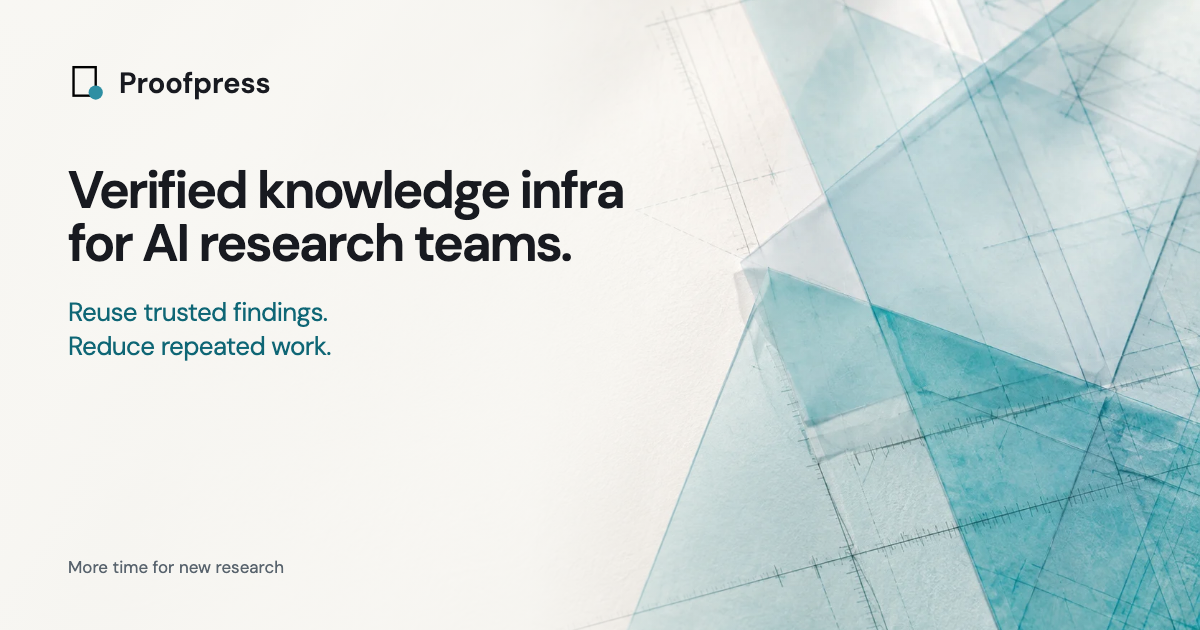
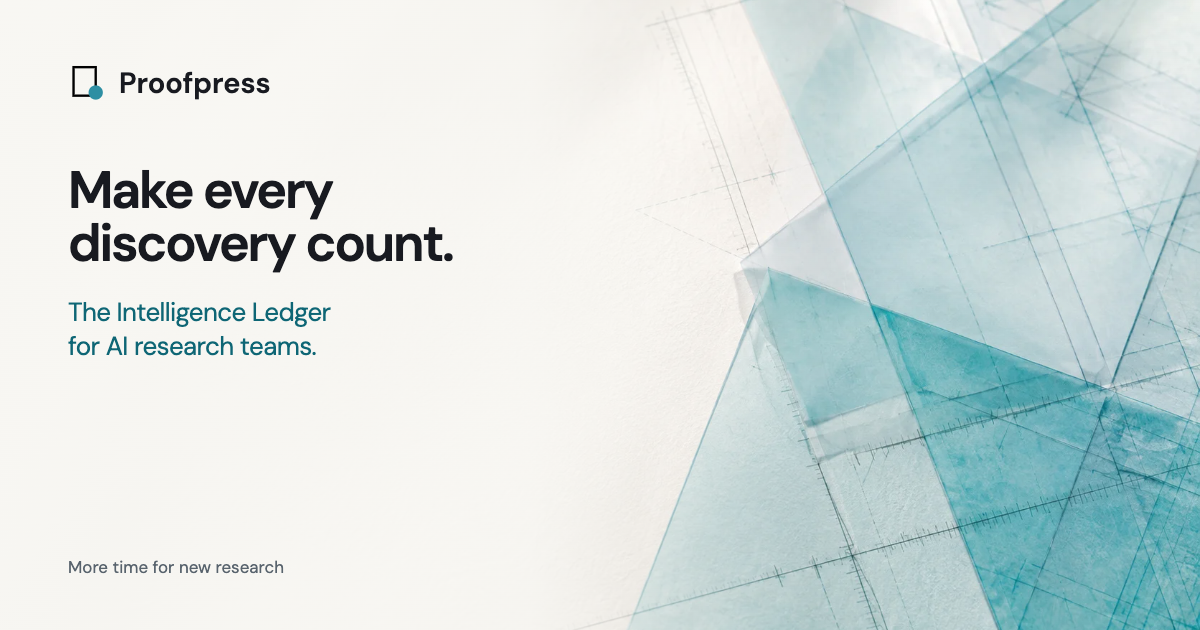
Align social share image with current landing narrative (#201)

Changed region(s): [[0.0617, 0.2714, 0.5242, 0.4222], [0.0308, 0.4825, 0.2775, 0.573]]

diff --git a/web/landing/index.html b/web/landing/index.html
@@ -12,16 +12,16 @@
     <meta property="og:url" content="https://proofpress.dev/" />
     <meta property="og:title" content="Proofpress — Make every discovery count" />
     <meta property="og:description" content="The Intelligence Ledger for AI research teams. Preserve trusted findings so every researcher and agent can build on what came before." />
-    <meta property="og:image" content="https://proofpress.dev/og-proofpress.png" />
+    <meta property="og:image" content="https://proofpress.dev/og-proofpress.png?v=20260924" />
     <meta property="og:image:type" content="image/png" />
     <meta property="og:image:width" content="1200" />
     <meta property="og:image:height" content="630" />
-    <meta property="og:image:alt" content="Proofpress: Verified knowledge infra for AI research teams." />
+    <meta property="og:image:alt" content="Proofpress: Make every discovery count. The Intelligence Ledger for AI research teams." />
     <meta name="twitter:card" content="summary_large_image" />
     <meta name="twitter:title" content="Proofpress — Make every discovery count" />
     <meta name="twitter:description" content="The Intelligence Ledger for AI research teams. Preserve trusted findings so every researcher and agent can build on what came before." />
-    <meta name="twitter:image" content="https://proofpress.dev/og-proofpress.png" />
-    <meta name="twitter:image:alt" content="Proofpress: Verified knowledge infra for AI research teams." />
+    <meta name="twitter:image" content="https://proofpress.dev/og-proofpress.png?v=20260924" />
+    <meta name="twitter:image:alt" content="Proofpress: Make every discovery count. The Intelligence Ledger for AI research teams." />
     <link rel="preconnect" href="https://fonts.googleapis.com" />
     <link rel="preconnect" href="https://fonts.gstatic.com" crossorigin />
     <link href="https://fonts.googleapis.com/css2?family=DM+Sans:wght@400;500;600;700&family=IBM+Plex+Mono:wght@500;600&display=swap" rel="stylesheet" />

diff --git a/web/landing/scripts/og-card.html b/web/landing/scripts/og-card.html
@@ -32,8 +32,8 @@
   <body>
     <main>
       <header><img src="../public/logo.svg" alt="" />Proofpress</header>
-      <h1>Verified knowledge infra<br />for AI research teams.</h1>
-      <p>Reuse trusted findings.<br />Reduce repeated work.</p>
+      <h1>Make every<br />discovery count.</h1>
+      <p>The Intelligence Ledger<br />for AI research teams.</p>
       <footer><span>More time for new research</span></footer>
     </main>
   </body>
